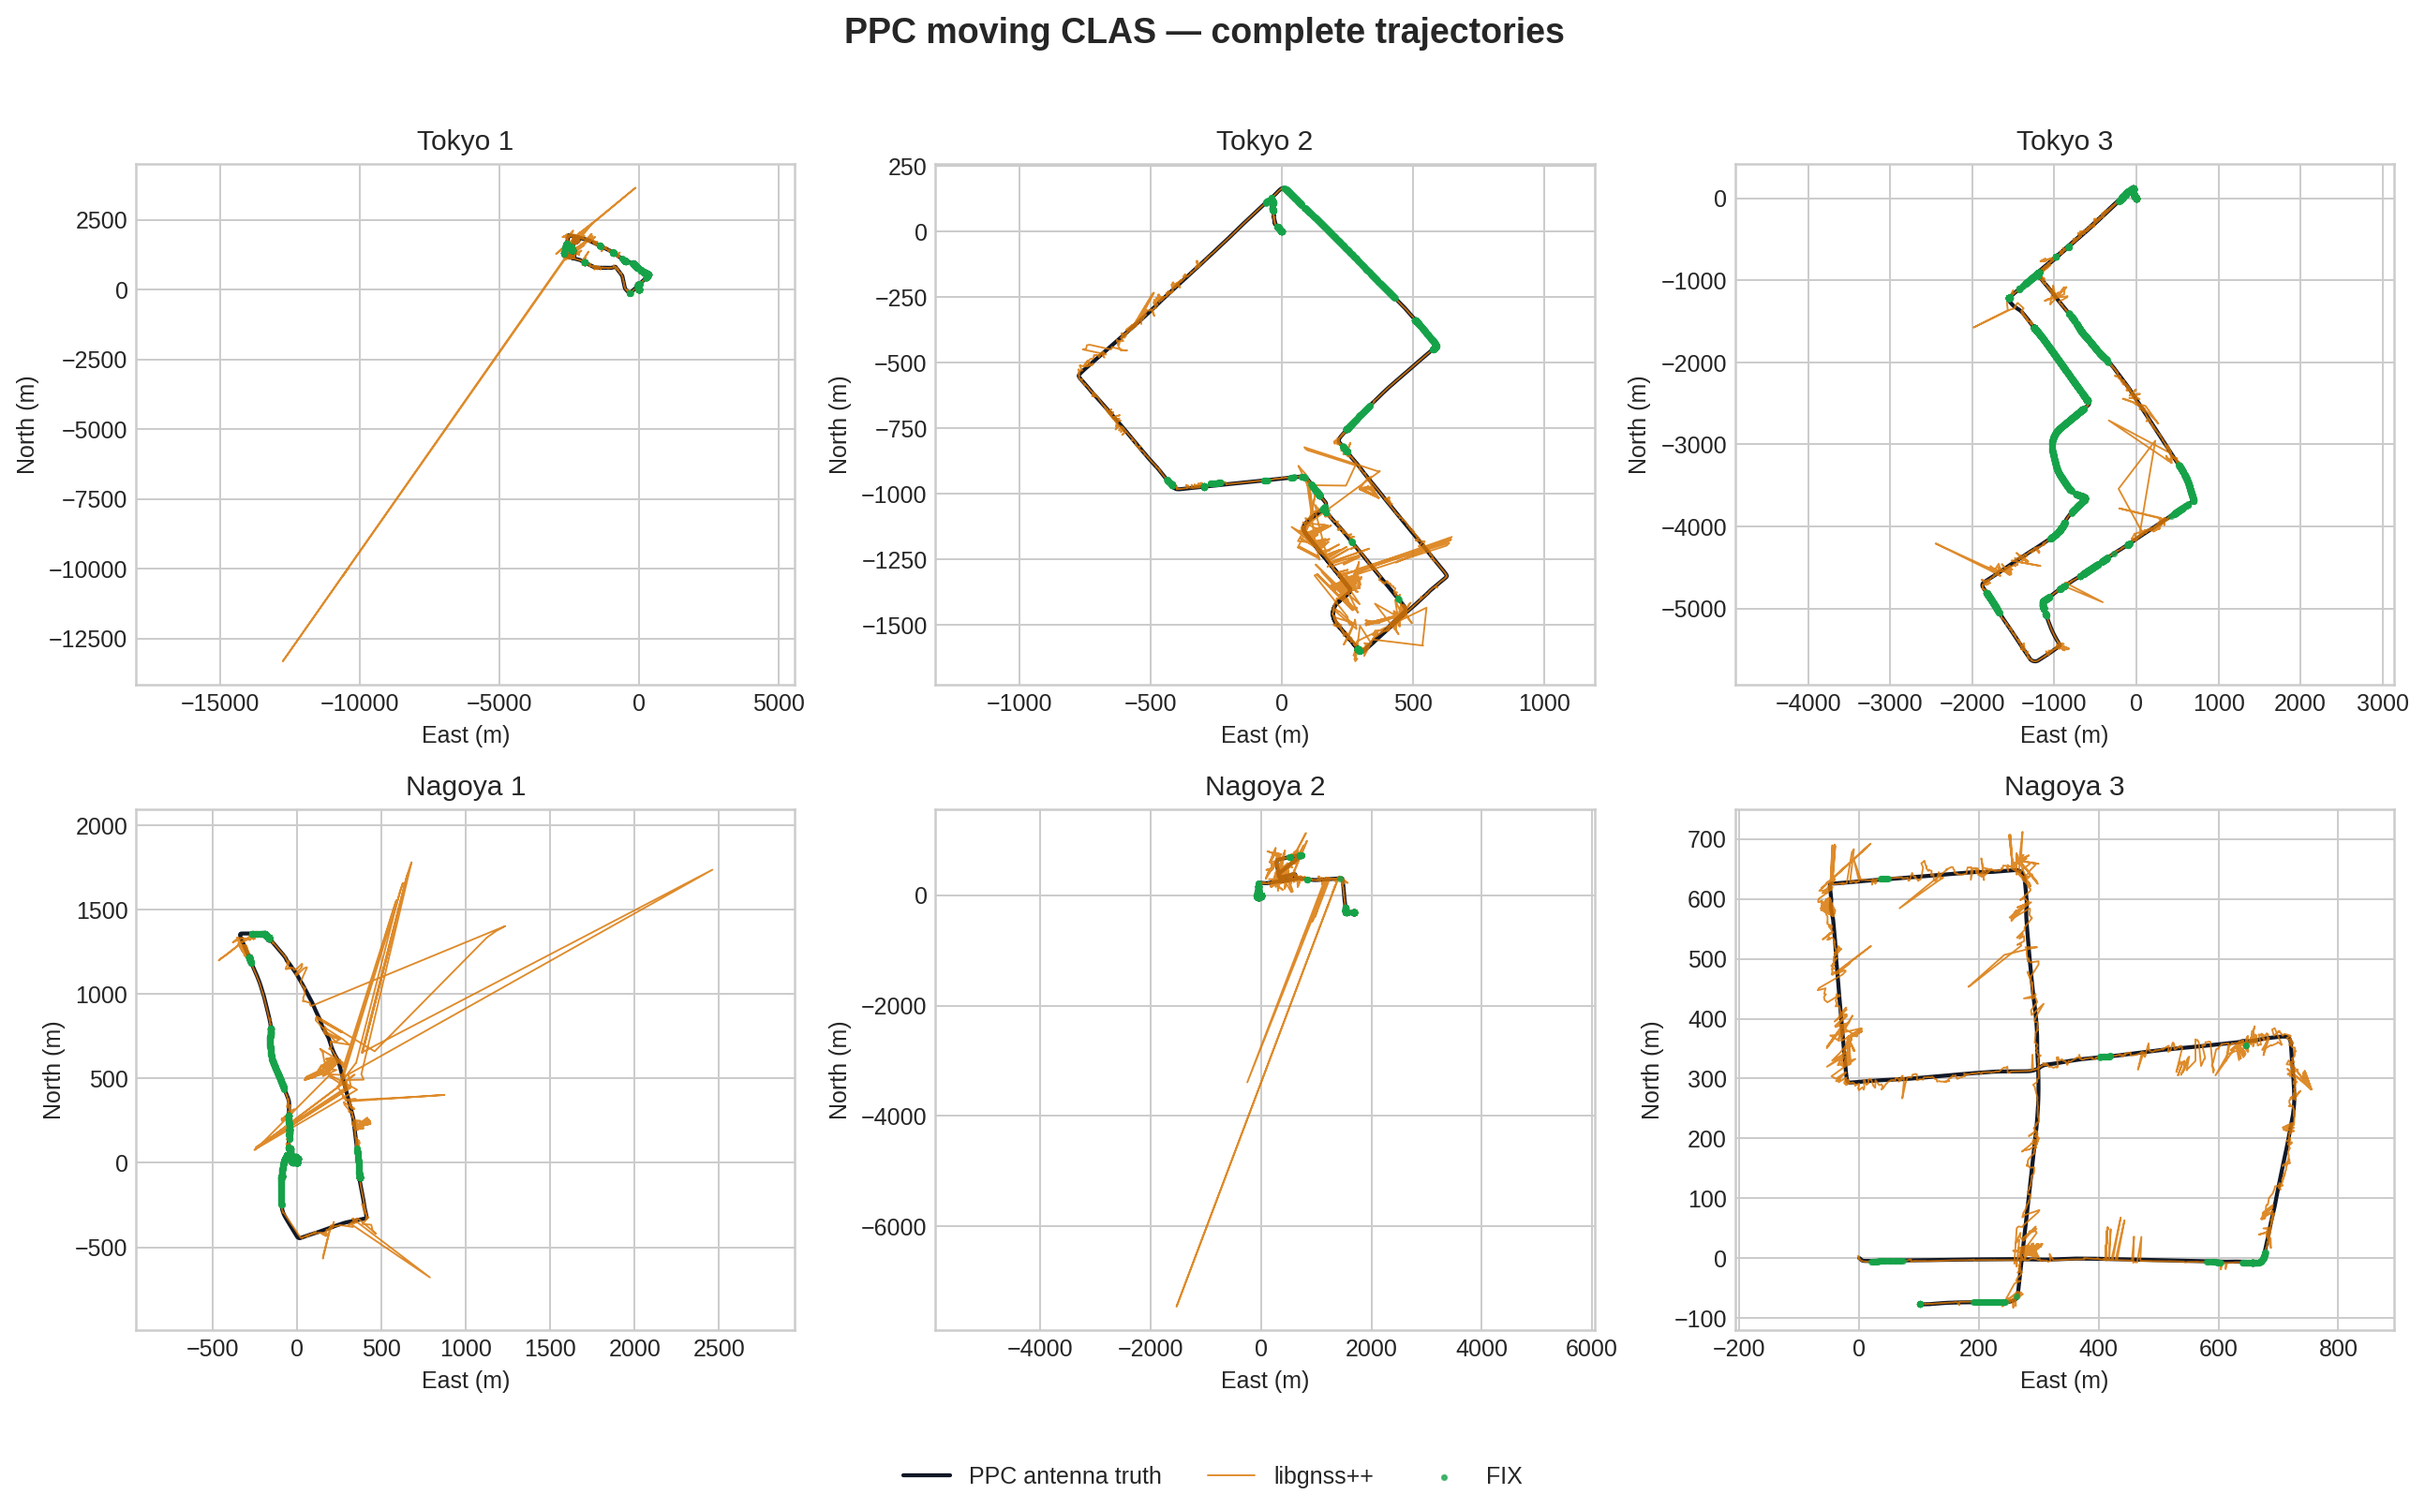
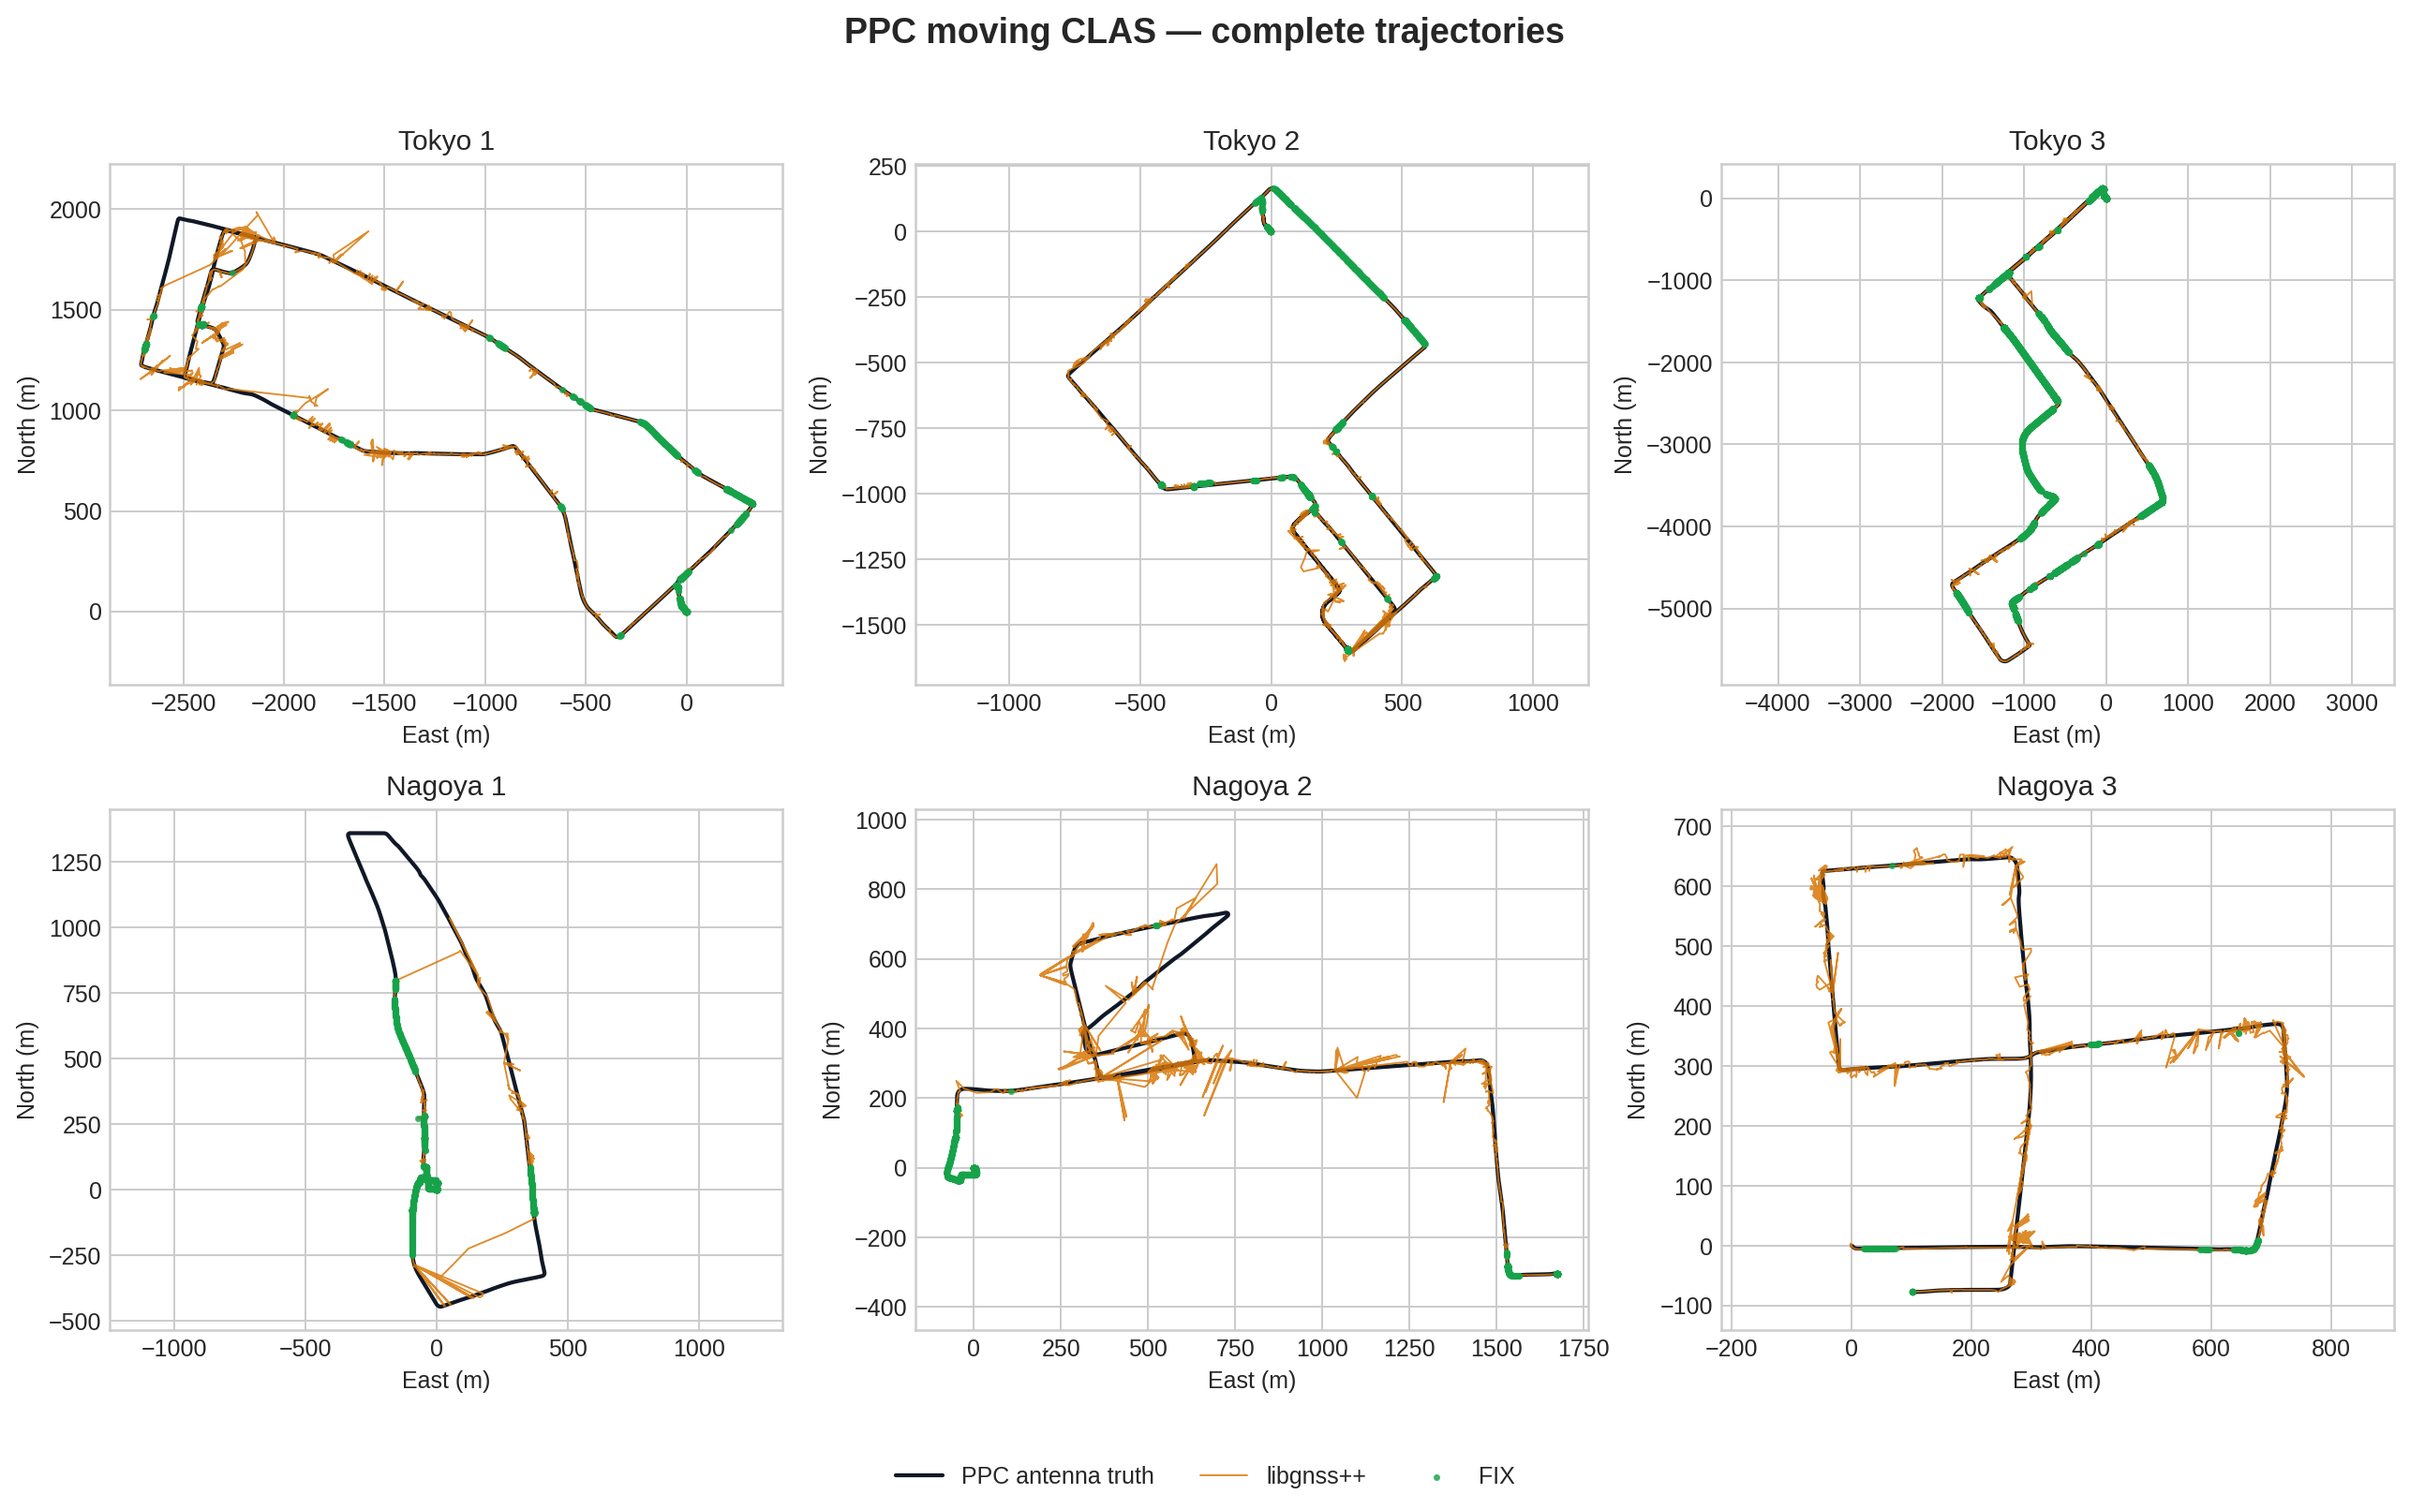
Refresh six-run benchmark artifacts with the SPP guard in place
Six-run aggregate vs the pre-guard baseline: FIX 21.8 -> 21.1%,
FIX RMS2D 0.881 -> 0.816 m, bad fixes (>2 m) 1.8 -> 1.0%, FIX p68
0.606 -> 0.503 m, and worst-case horizontal error drops from
17.7 km to <= 722 m across all runs. tokyo_run3 fix rate rises to
34.6%. Costs: nagoya_run1 fix rate 38.6 -> 30.6% (still 1.8x the
MRTKLIB target) with all-epoch RMS2D worsened by coasted rows in
its long degraded stretch, nagoya_run3 fix rate -0.8pp, epoch
coverage now 92.2-97.6%.

Claude-Session: https://claude.ai/code/session_01MUCnryRLWcreFbeeRS3hc1

diff --git a/docs/ppc_clas_full_table.md b/docs/ppc_clas_full_table.md
@@ -1,12 +1,12 @@
 | Run | Coverage (time / epochs) | libgnss++ FIX | MRTKLIB FIX | libgnss++ FIX RMS2D* | MRTKLIB RMS2D† | libgnss++ FIX p68* | MRTKLIB p68† | libgnss++ TTFF | MRTKLIB TTFF |
 |---|---:|---:|---:|---:|---:|---:|---:|---:|---:|
-| Tokyo 1 | 100.000% / 93.813% | 10.845% | 4.900% | 1.329 m | 0.747 m | 0.329 m | 0.244 m | 0.000 s | 15.000 s |
-| Tokyo 2 | 100.000% / 97.476% | 15.835% | 21.700% | 1.232 m | 0.514 m | 0.323 m | 0.120 m | 380.800 s | 368.000 s |
-| Tokyo 3 | 100.000% / 98.471% | 32.232% | 7.400% | 0.360 m | 0.801 m | 0.323 m | 0.075 m | 4.000 s | 28.000 s |
-| Nagoya 1 | 100.000% / 94.896% | 38.580% | 17.000% | 1.061 m | 1.105 m | 1.161 m | 0.402 m | 0.000 s | 0.000 s |
-| Nagoya 2 | 100.000% / 97.863% | 19.610% | 23.400% | 0.793 m | 1.119 m | 0.826 m | 0.461 m | 0.000 s | 0.000 s |
-| Nagoya 3 | 100.000% / 99.212% | 5.902% | 6.300% | 1.189 m | 0.318 m | 0.928 m | 0.339 m | 29.000 s | 9.000 s |
-| **Six-run aggregate** | — | **21.811%** | — | **0.881 m** | — | **0.606 m** | — | — | — |
+| Tokyo 1 | 100.000% / 92.203% | 10.112% | 4.900% | 0.897 m | 0.747 m | 0.315 m | 0.244 m | 0.000 s | 15.000 s |
+| Tokyo 2 | 100.000% / 95.629% | 15.556% | 21.700% | 1.270 m | 0.514 m | 0.319 m | 0.120 m | 377.600 s | 368.000 s |
+| Tokyo 3 | 100.000% / 96.549% | 34.561% | 7.400% | 0.347 m | 0.801 m | 0.321 m | 0.075 m | 4.000 s | 28.000 s |
+| Nagoya 1 | 100.000% / 92.831% | 30.627% | 17.000% | 1.118 m | 1.105 m | 1.118 m | 0.402 m | 0.000 s | 0.000 s |
+| Nagoya 2 | 100.000% / 95.334% | 19.542% | 23.400% | 0.776 m | 1.119 m | 0.815 m | 0.461 m | 0.000 s | 0.000 s |
+| Nagoya 3 | 100.000% / 97.597% | 5.064% | 6.300% | 1.208 m | 0.318 m | 0.925 m | 0.339 m | 29.000 s | 9.000 s |
+| **Six-run aggregate** | — | **21.136%** | — | **0.816 m** | — | **0.503 m** | — | — | — |
 
 \* libgnss++ precision uses PPC vehicle truth transformed to the antenna phase center.
 † Published MRTKLIB v0.4.2 precision uses the unmodified PPC reference point; precision columns are contextual rather than reference-identical.
